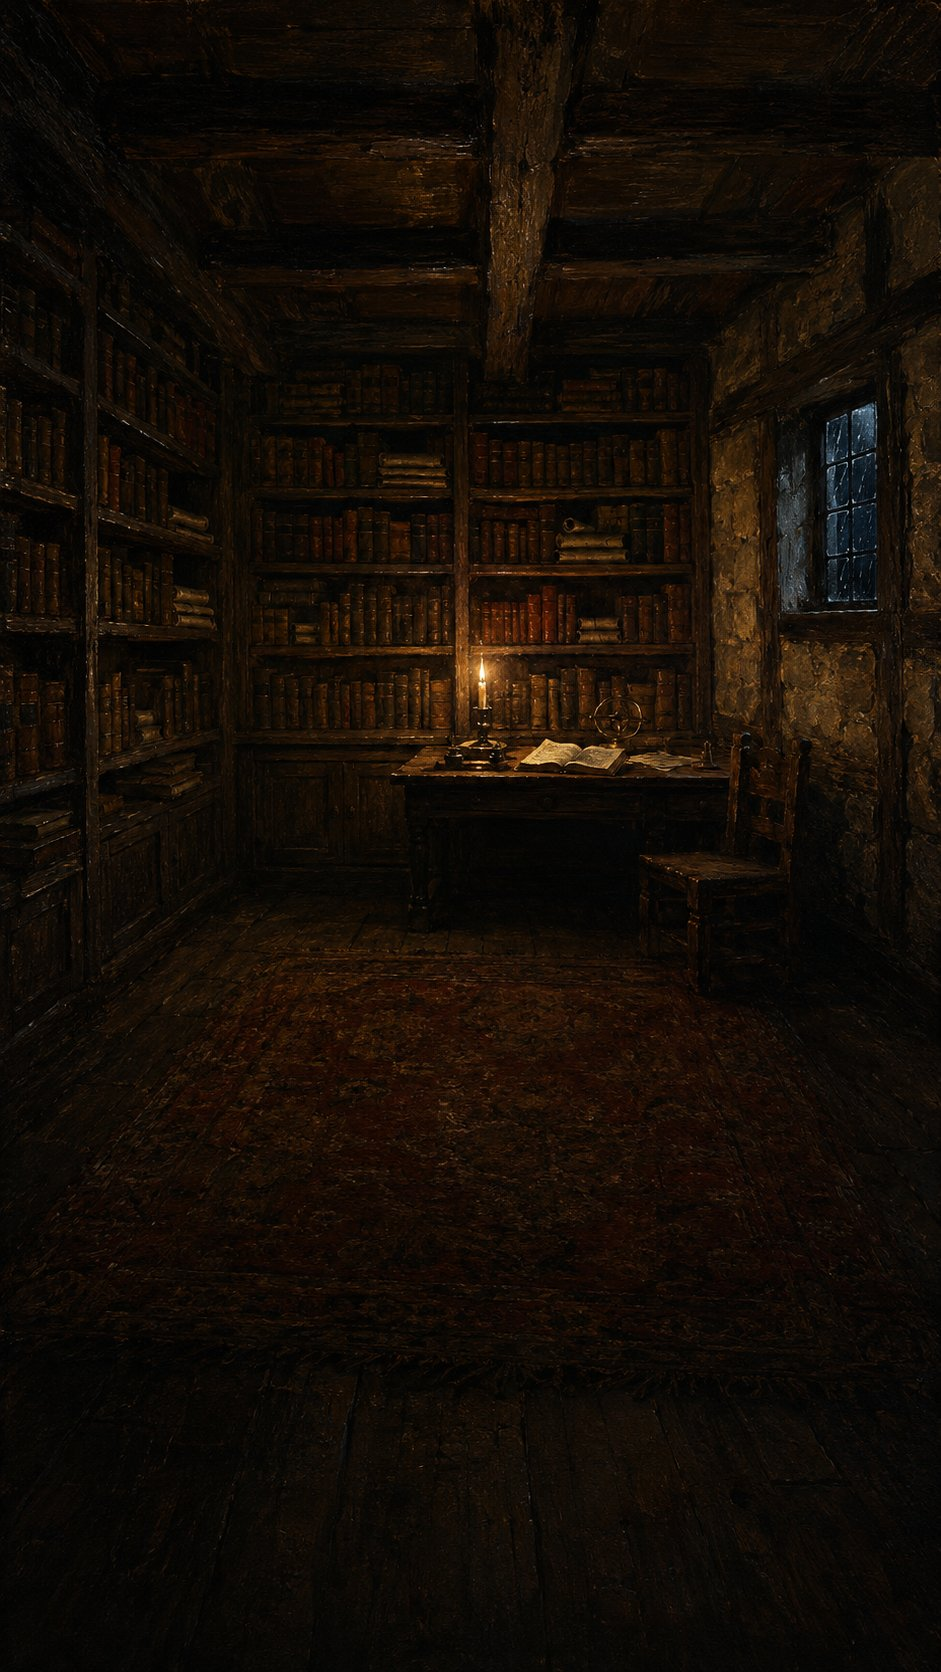
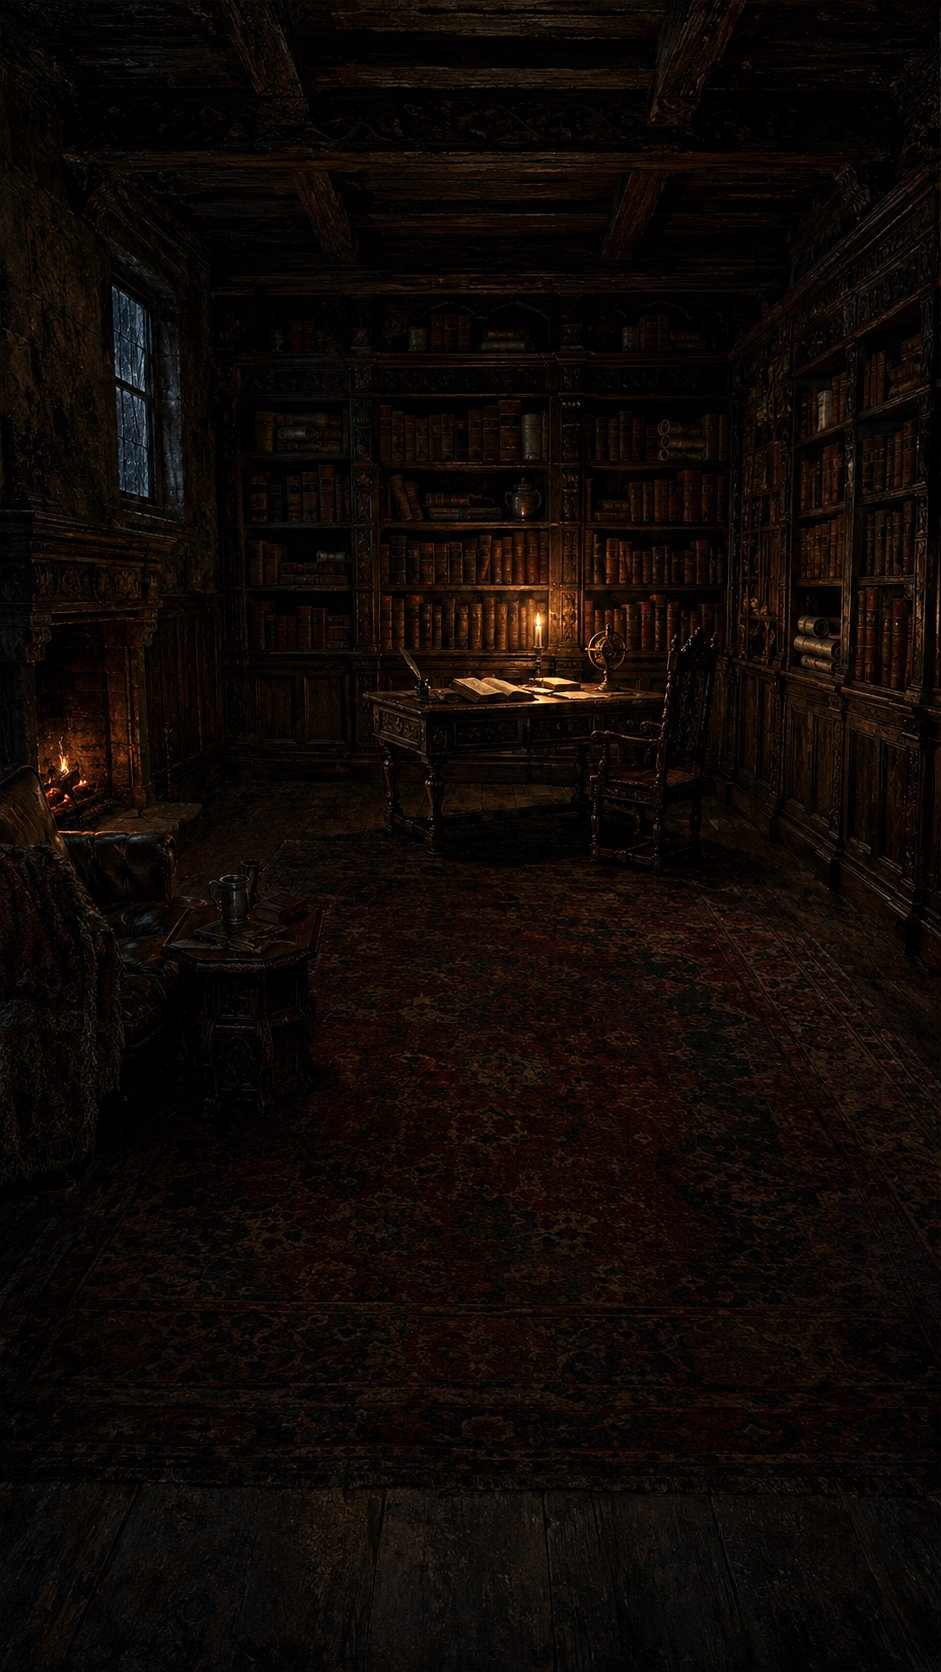
app: 背景を貴族の書斎(noble_study)へ・火の粉の描画を磨く(白熱/燃えかすの2種) (2026-09-04 KEI指示)
Claude-Session: https://claude.ai/code/session_01M3FJP3qF1VdhzDcuAjftW9

diff --git a/a/index.html b/a/index.html
@@ -586,7 +586,8 @@ function spawnEmber() {
     x: dc.width * (0.62 + Math.random() * 0.36), y: dc.height * (0.78 + Math.random() * 0.22),
     r: 0.9 + Math.random() * 1.9, a: 0.55 + Math.random() * 0.4,
     vx: (Math.random() - 0.5) * 0.25, vy: -(0.35 + Math.random() * 0.65), sway: 14 + Math.random() * 26,
-    ph: Math.random() * Math.PI * 2, life: 0.8 + Math.random() * 0.5, px: 0, py: 0
+    ph: Math.random() * Math.PI * 2, life: 0.8 + Math.random() * 0.5, px: 0, py: 0,
+    hot: Math.random() < 0.22   // 一部は白熱した「火の粉」、残りは赤みの燃えかす
   });
 }
 let glowFl = 0.8, glowTarget = 0.8;
@@ -615,7 +616,7 @@ let glowFl = 0.8, glowTarget = 0.8;
     dctx.beginPath(); dctx.arc(m.x, m.y, m.r, 0, Math.PI * 2); dctx.fill();
   }
   // 火の粉 v5 (2026-09-03 KEI「HTMLっぽい」): 蝋燭の位置(右下)から立ち上る。加算合成の柔らかい光球+短い尾+個別のまたたき+風の揺らぎ
-  if (embers.length < 14 && Math.random() < 0.06) spawnEmber();
+  if (embers.length < 18 && Math.random() < 0.07) spawnEmber();
   dctx.save();
   dctx.globalCompositeOperation = 'lighter';
   for (let i = embers.length - 1; i >= 0; i--) {
@@ -635,13 +636,13 @@ let glowFl = 0.8, glowTarget = 0.8;
     dctx.beginPath(); dctx.moveTo(e.px - e.vx * 3, e.py - e.vy * 3); dctx.lineTo(e.x, e.y); dctx.stroke();
     // 光球(ハロ)
     const gr = dctx.createRadialGradient(e.x, e.y, 0, e.x, e.y, rr * 5);
-    gr.addColorStop(0, 'rgba(255,220,150,' + (al * 0.9).toFixed(3) + ')');
-    gr.addColorStop(0.25, 'rgba(255,160,60,' + (al * 0.45).toFixed(3) + ')');
+    gr.addColorStop(0, (e.hot ? 'rgba(255,236,190,' : 'rgba(255,190,110,') + (al * 0.9).toFixed(3) + ')');
+    gr.addColorStop(0.25, (e.hot ? 'rgba(255,180,80,' : 'rgba(230,110,40,') + (al * 0.45).toFixed(3) + ')');
     gr.addColorStop(1, 'rgba(255,110,30,0)');
     dctx.fillStyle = gr;
     dctx.beginPath(); dctx.arc(e.x, e.y, rr * 5, 0, Math.PI * 2); dctx.fill();
     // 芯
-    dctx.fillStyle = 'rgba(255,240,200,' + Math.min(0.95, al * 1.2).toFixed(3) + ')';
+    dctx.fillStyle = (e.hot ? 'rgba(255,246,220,' : 'rgba(255,200,130,') + Math.min(0.95, al * (e.hot ? 1.3 : 0.9)).toFixed(3) + ')';
     dctx.beginPath(); dctx.arc(e.x, e.y, rr * 0.55, 0, Math.PI * 2); dctx.fill();
   }
   dctx.restore();

diff --git a/app/index.html b/app/index.html
@@ -158,7 +158,7 @@ html,body{margin:0;height:100%;overflow:hidden;font-family:serif;-webkit-tap-hig
 import * as THREE from 'three';
 import { GLTFLoader } from 'three/addons/loaders/GLTFLoader.js';
 const $ = id => document.getElementById(id);
-const BUILD = '20260904b';
+const BUILD = '20260904c';
 
 // ============================================================ 設定(読書側 a/ と共有キー)
 const DEFAULTS = { bgm:true, rain:true, insects:false, candle:false, amb:0.6, flip:1.0, rainKind:'study', bgmVol:0.5 };
